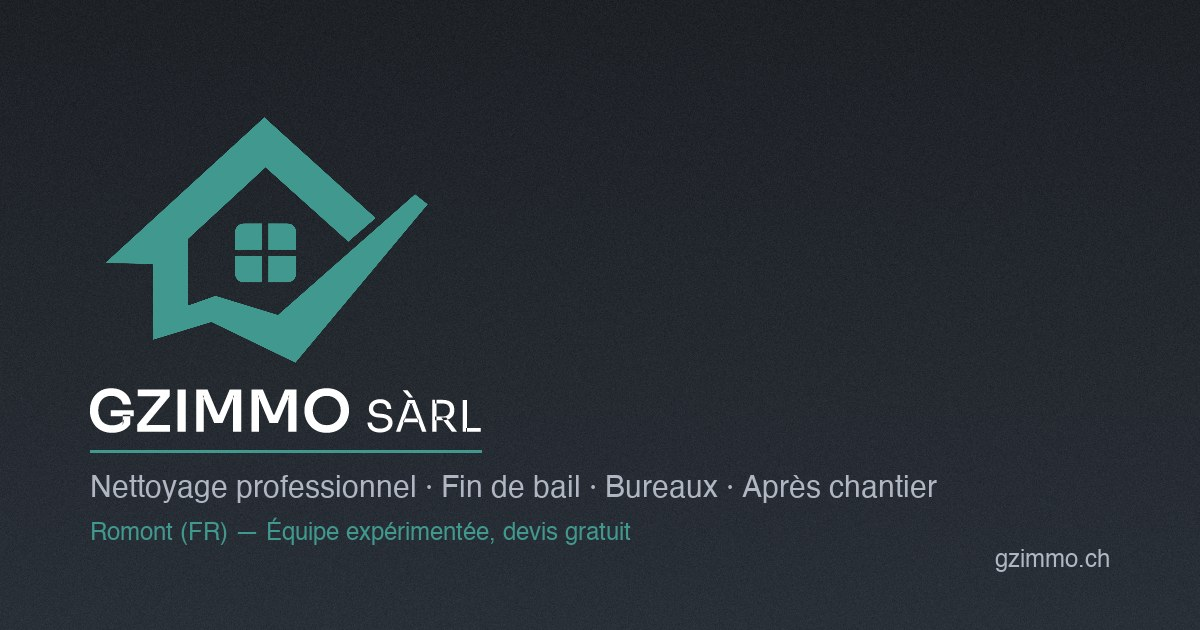
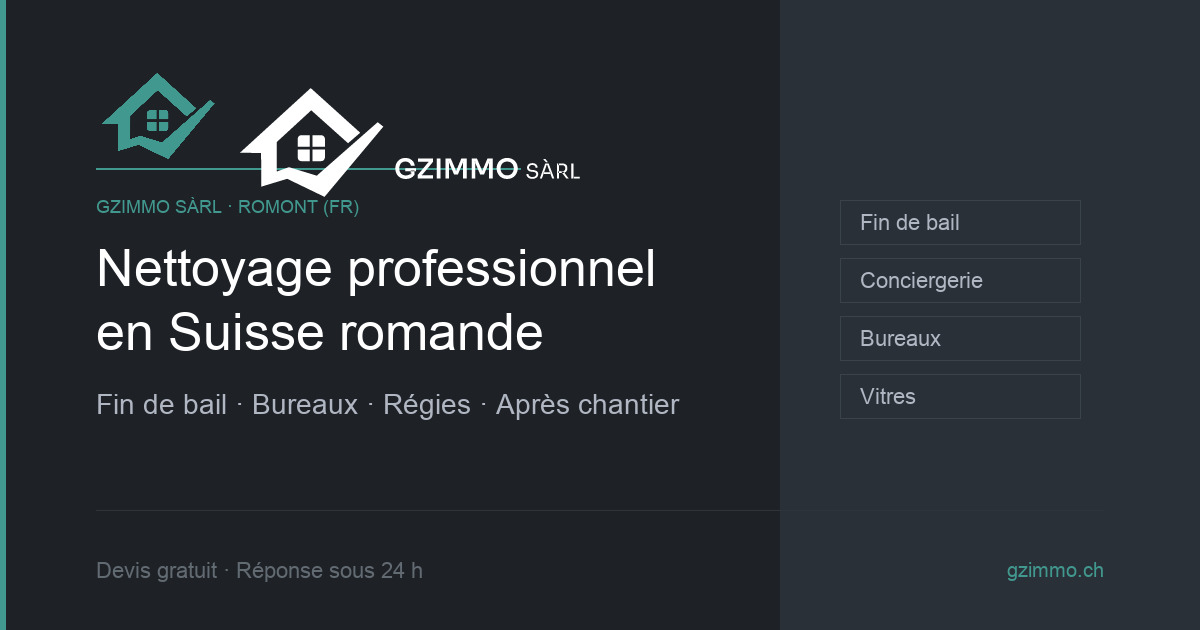
Refondre l'image Open Graph par défaut pour gzimmo.ch.
Nouveau visuel premium 1200×630, script de génération mis à jour et alt OG enrichi.

diff --git a/lib/metadata.ts b/lib/metadata.ts
@@ -55,7 +55,7 @@ export function createMetadata({
       siteName: company.name,
       title: pageTitle,
       description,
-      images: [{ url: "/og-default.jpg", width: 1200, height: 630, alt: company.name }],
+      images: [{ url: "/og-default.jpg", width: 1200, height: 630, alt: `${company.name} — Nettoyage professionnel en Suisse romande` }],
     },
     twitter: {
       card: "summary_large_image",

diff --git a/scripts/generate-og-image.py b/scripts/generate-og-image.py
@@ -1,5 +1,5 @@
 #!/usr/bin/env python3
-"""Generate the default Open Graph image (1200x630 JPG) for gzimmo.ch."""
+"""Generate the default Open Graph image (1200×630) for gzimmo.ch."""
 
 from __future__ import annotations
 
@@ -8,45 +8,49 @@ import subprocess
 import tempfile
 from pathlib import Path
 
-import numpy as np
 from PIL import Image, ImageDraw, ImageFont
 
 ROOT = Path(__file__).resolve().parents[1]
 WIDTH, HEIGHT = 1200, 630
-OUT = ROOT / "public" / "og-default.jpg"
-ICON_SVG = ROOT / "public" / "icon_only.svg"
+OUT_JPG = ROOT / "public" / "og-default.jpg"
+OUT_PNG = ROOT / "public" / "og-default.png"
 TEXT_SVG = ROOT / "public" / "horizontal.svg"
 
-BG_TOP = (30, 34, 39)
-BG_BOTTOM = (42, 48, 56)
-ACCENT = (65, 152, 142)
-WHITE = (253, 253, 253)
+# Brand tokens (gzimmo.ch)
+BG = (30, 34, 39)  # #1E2227
+BG_SOFT = (42, 48, 56)  # #2A3038
+ACCENT = (65, 152, 142)  # #41988E
+WHITE = (255, 255, 255)
 MUTED = (176, 182, 194)
+SUBTLE = (98, 106, 114)
 
 SANS_CANDIDATES = [
-    "/System/Library/Fonts/Helvetica.ttc",
     "/System/Library/Fonts/Supplemental/Arial.ttf",
+    "/System/Library/Fonts/Helvetica.ttc",
+    "/Library/Fonts/Arial.ttf",
 ]
 
 
-def load_font(candidates: list[str], size: int) -> ImageFont.FreeTypeFont:
-    for path in candidates:
+def load_font(size: int, bold: bool = False) -> ImageFont.FreeTypeFont:
+    for path in SANS_CANDIDATES:
         if Path(path).exists():
-            return ImageFont.truetype(path, size)
+            try:
+                return ImageFont.truetype(path, size, index=1 if bold and path.endswith(".ttc") else 0)
+            except OSError:
+                return ImageFont.truetype(path, size)
     return ImageFont.load_default()
 
 
 def prepare_gzimmo_text_svg(svg: str) -> str:
-    """Keep wordmark paths only and render them white on the dark OG background."""
+    """Full lockup on dark background — keep teal symbol, white wordmark."""
 
     def process_shape(match: re.Match[str]) -> str:
         tag = match.group(0)
         lower = tag.lower()
         if "fill:none" in lower or "fill-opacity:0" in lower:
             return ""
-        if "#41988e" in lower:
-            return ""
-
+        if "#41988e" in lower or "#41988E" in tag:
+            return tag
         tag = re.sub(r'\s*style="[^"]*"', "", tag)
         if 'fill="' in tag:
             tag = re.sub(r'fill="[^"]*"', 'fill="#FFFFFF"', tag)
@@ -84,90 +88,121 @@ def render_svg_to_png(
     return Image.open(output_png).convert("RGBA")
 
 
-def build_background() -> Image.Image:
-    y = np.linspace(0, 1, HEIGHT)[:, None]
-    top = np.array(BG_TOP, dtype=np.float64)
-    bottom = np.array(BG_BOTTOM, dtype=np.float64)
-    gradient = top * (1 - y) + bottom * y
-    base = np.repeat(gradient[:, None, :], WIDTH, axis=1)
-
-    rng = np.random.default_rng(11)
-    grain = rng.normal(0, 3.0, size=(HEIGHT, WIDTH, 1))
-    arr = np.clip(base + grain, 0, 255).astype(np.uint8)
-    return Image.fromarray(arr)
-
-
 def trim_transparent(img: Image.Image) -> Image.Image:
     bbox = img.getbbox()
-    if bbox:
-        return img.crop(bbox)
-    return img
+    return img.crop(bbox) if bbox else img
 
 
 def paste_rgba(base: Image.Image, overlay: Image.Image, position: tuple[int, int]) -> None:
     base.paste(overlay, position, overlay)
 
 
+def build_background() -> Image.Image:
+    """Flat premium surface — no gradient, hairline structure only."""
+    img = Image.new("RGB", (WIDTH, HEIGHT), BG)
+    draw = ImageDraw.Draw(img)
+
+    # Accent bar (editorial anchor)
+    draw.rectangle([0, 0, 5, HEIGHT], fill=ACCENT)
+
+    # Soft right panel — flat tone shift, not gradient
+    draw.rectangle([WIDTH - 420, 0, WIDTH, HEIGHT], fill=BG_SOFT)
+
+    # Hairline separators
+    draw.line([(96, HEIGHT - 120), (WIDTH - 96, HEIGHT - 120)], fill=(46, 52, 58), width=1)
+    draw.line([(96, 168), (520, 168)], fill=ACCENT, width=2)
+
+    return img
+
+
 def main() -> None:
-    if not ICON_SVG.exists():
-        raise FileNotFoundError(f"Missing icon SVG: {ICON_SVG}")
     if not TEXT_SVG.exists():
         raise FileNotFoundError(f"Missing text SVG: {TEXT_SVG}")
 
     img = build_background()
     draw = ImageDraw.Draw(img)
-    sans_sub = load_font(SANS_CANDIDATES, 30)
-    sans_small = load_font(SANS_CANDIDATES, 24)
-    margin = 90
+
+    font_display = load_font(52, bold=True)
+    font_lead = load_font(28)
+    font_meta = load_font(22)
+    font_url = load_font(20)
+    font_badge = load_font(18)
+
+    margin_left = 96
 
     with tempfile.TemporaryDirectory() as tmp_dir:
         tmp = Path(tmp_dir)
-        icon_png = render_svg_to_png(
-            ICON_SVG.read_text(),
-            tmp / "icon.png",
-            fit_height=250,
-        )
         text_png = render_svg_to_png(
             prepare_gzimmo_text_svg(TEXT_SVG.read_text()),
             tmp / "text.png",
-            fit_width=720,
+            fit_width=480,
         )
         text_png = trim_transparent(text_png)
 
-    paste_rgba(img, icon_png, (margin, 115))
-    text_y = 388
-    paste_rgba(img, text_png, (margin, text_y))
+    paste_rgba(img, text_png, (margin_left, 78))
 
-    rule_y = text_y + text_png.height + 18
-    rule_width = max(320, text_png.width)
-    draw.line([(margin, rule_y), (margin + rule_width, rule_y)], fill=ACCENT, width=3)
-
-    tagline_y = rule_y + 22
+    # Eyebrow
     draw.text(
-        (margin, tagline_y),
-        "Nettoyage professionnel · Fin de bail · Bureaux · Après chantier",
-        font=sans_sub,
-        fill=MUTED,
-    )
-    draw.text(
-        (margin, tagline_y + 48),
-        "Romont (FR) — Équipe expérimentée, devis gratuit",
-        font=sans_small,
+        (margin_left, 196),
+        "GZIMMO SÀRL · ROMONT (FR)",
+        font=font_badge,
         fill=ACCENT,
     )
 
-    url_text = "gzimmo.ch"
-    bbox = draw.textbbox((0, 0), url_text, font=sans_small)
+    # Headline
     draw.text(
-        (WIDTH - margin - (bbox[2] - bbox[0]), HEIGHT - 82),
-        url_text,
-        font=sans_small,
+        (margin_left, 238),
+        "Nettoyage professionnel",
+        font=font_display,
+        fill=WHITE,
+    )
+    draw.text(
+        (margin_left, 302),
+        "en Suisse romande",
+        font=font_display,
+        fill=WHITE,
+    )
+
+    # Lead
+    draw.text(
+        (margin_left, 388),
+        "Fin de bail · Bureaux · Régies · Après chantier",
+        font=font_lead,
         fill=MUTED,
     )
 
-    OUT.parent.mkdir(parents=True, exist_ok=True)
-    img.save(OUT, format="JPEG", quality=88, optimize=True)
-    print(f"Wrote {OUT}")
+    # Trust line
+    draw.text(
+        (margin_left, HEIGHT - 72),
+        "Devis gratuit · Réponse sous 24 h",
+        font=font_meta,
+        fill=SUBTLE,
+    )
+
+    # URL
+    url_text = "gzimmo.ch"
+    url_bbox = draw.textbbox((0, 0), url_text, font=font_url)
+    url_w = url_bbox[2] - url_bbox[0]
+    draw.text(
+        (WIDTH - 96 - url_w, HEIGHT - 72),
+        url_text,
+        font=font_url,
+        fill=ACCENT,
+    )
+
+    # Right panel — service chips (text only, minimal)
+    chips = ["Fin de bail", "Conciergerie", "Bureaux", "Vitres"]
+    chip_y = 200
+    for chip in chips:
+        draw.rectangle([WIDTH - 360, chip_y, WIDTH - 120, chip_y + 44], outline=(58, 66, 74), width=1)
+        draw.text((WIDTH - 340, chip_y + 10), chip, font=font_meta, fill=MUTED)
+        chip_y += 58
+
+    OUT_JPG.parent.mkdir(parents=True, exist_ok=True)
+    img.save(OUT_JPG, format="JPEG", quality=92, optimize=True, subsampling=0)
+    img.save(OUT_PNG, format="PNG", optimize=True)
+    print(f"Wrote {OUT_JPG}")
+    print(f"Wrote {OUT_PNG}")
 
 
 if __name__ == "__main__":